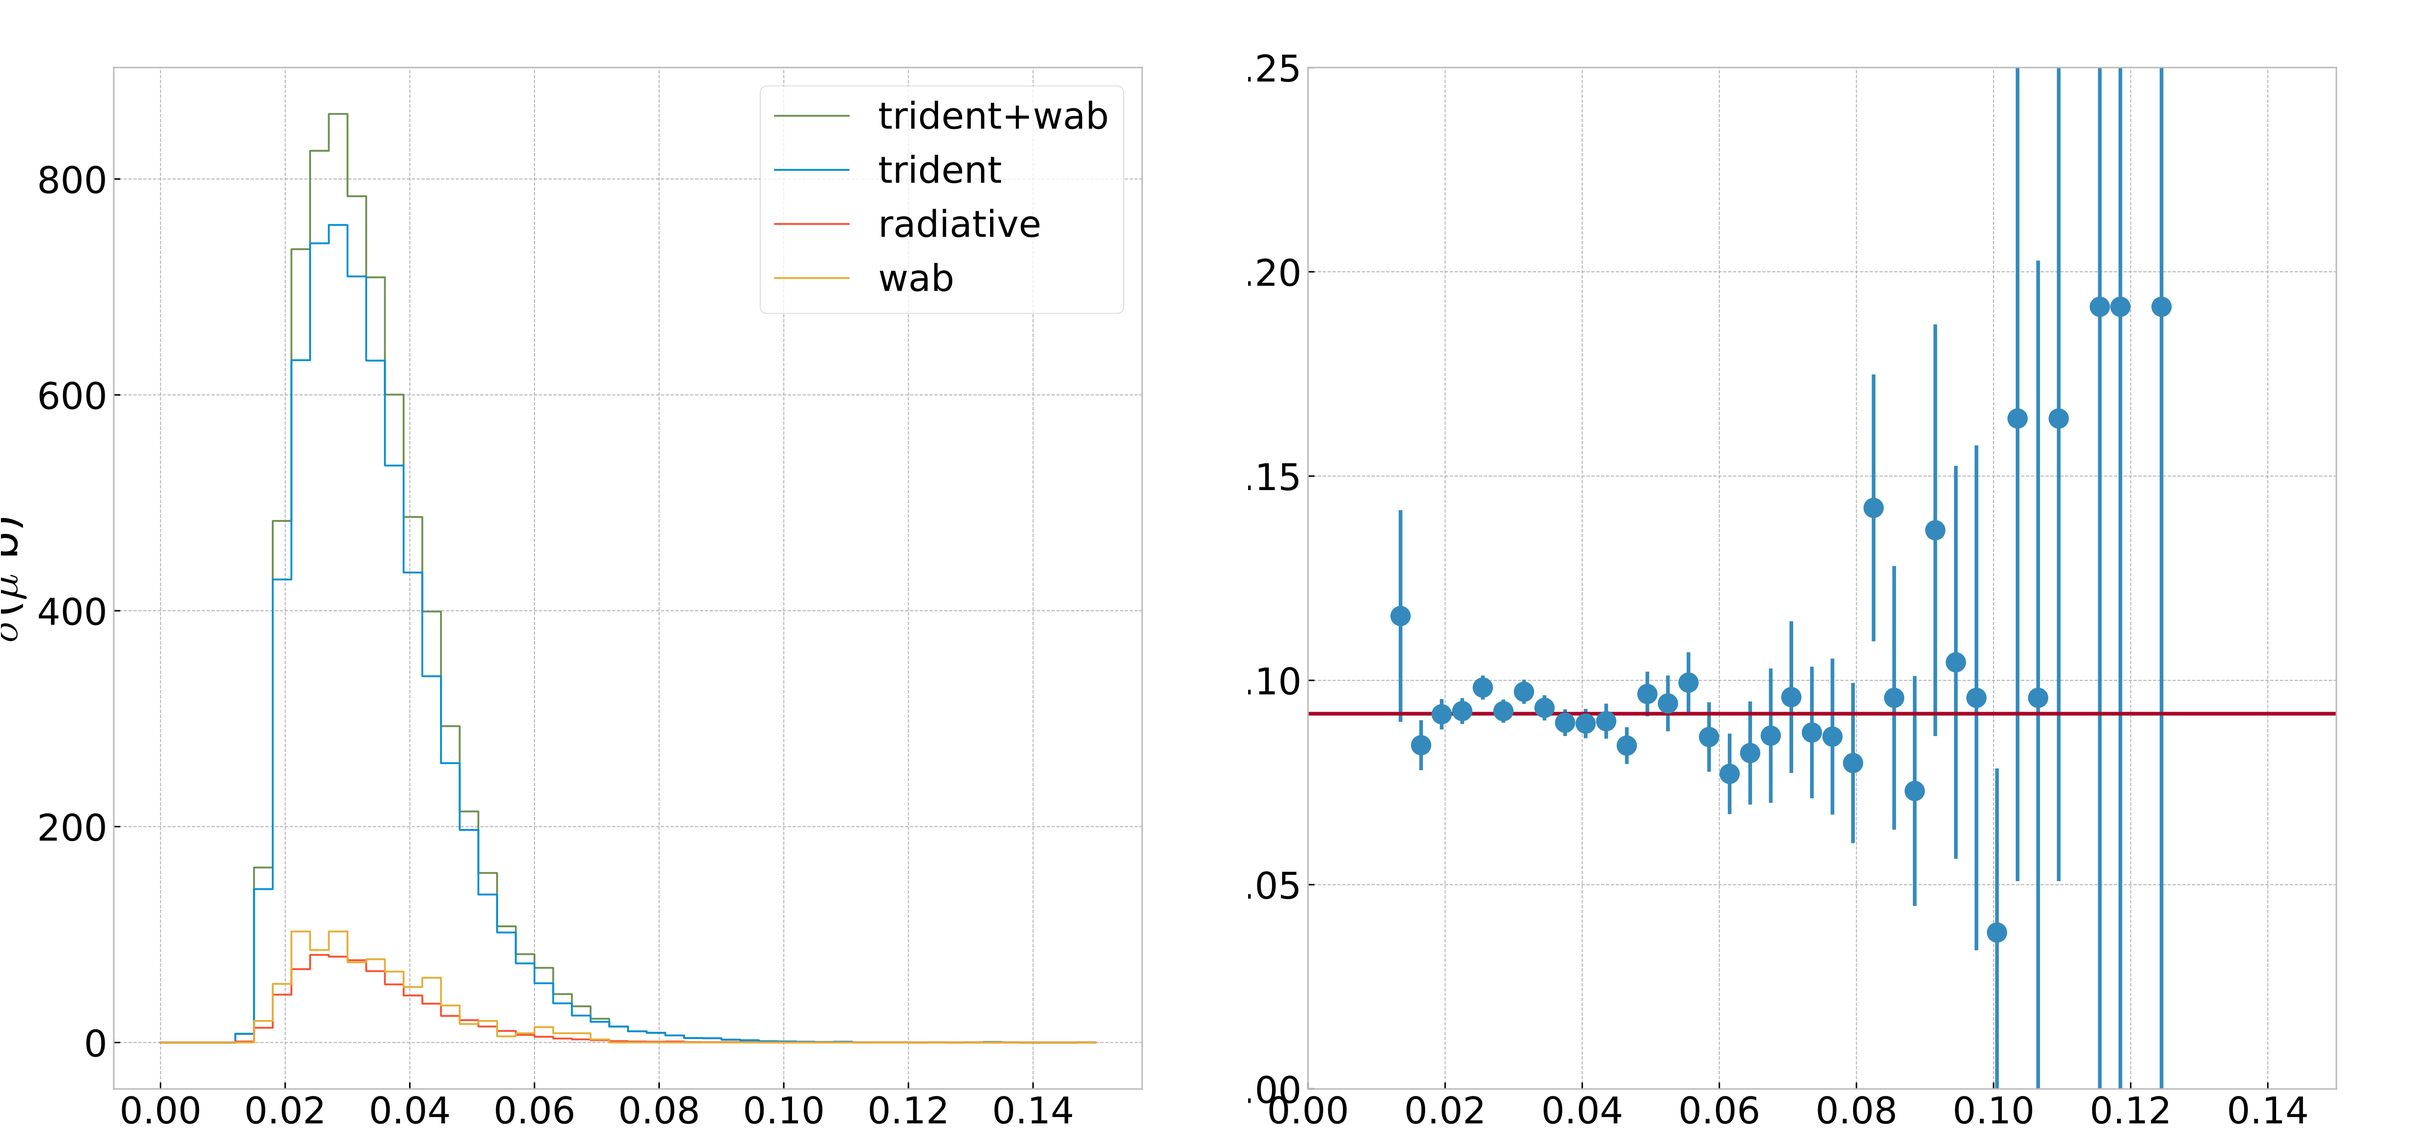
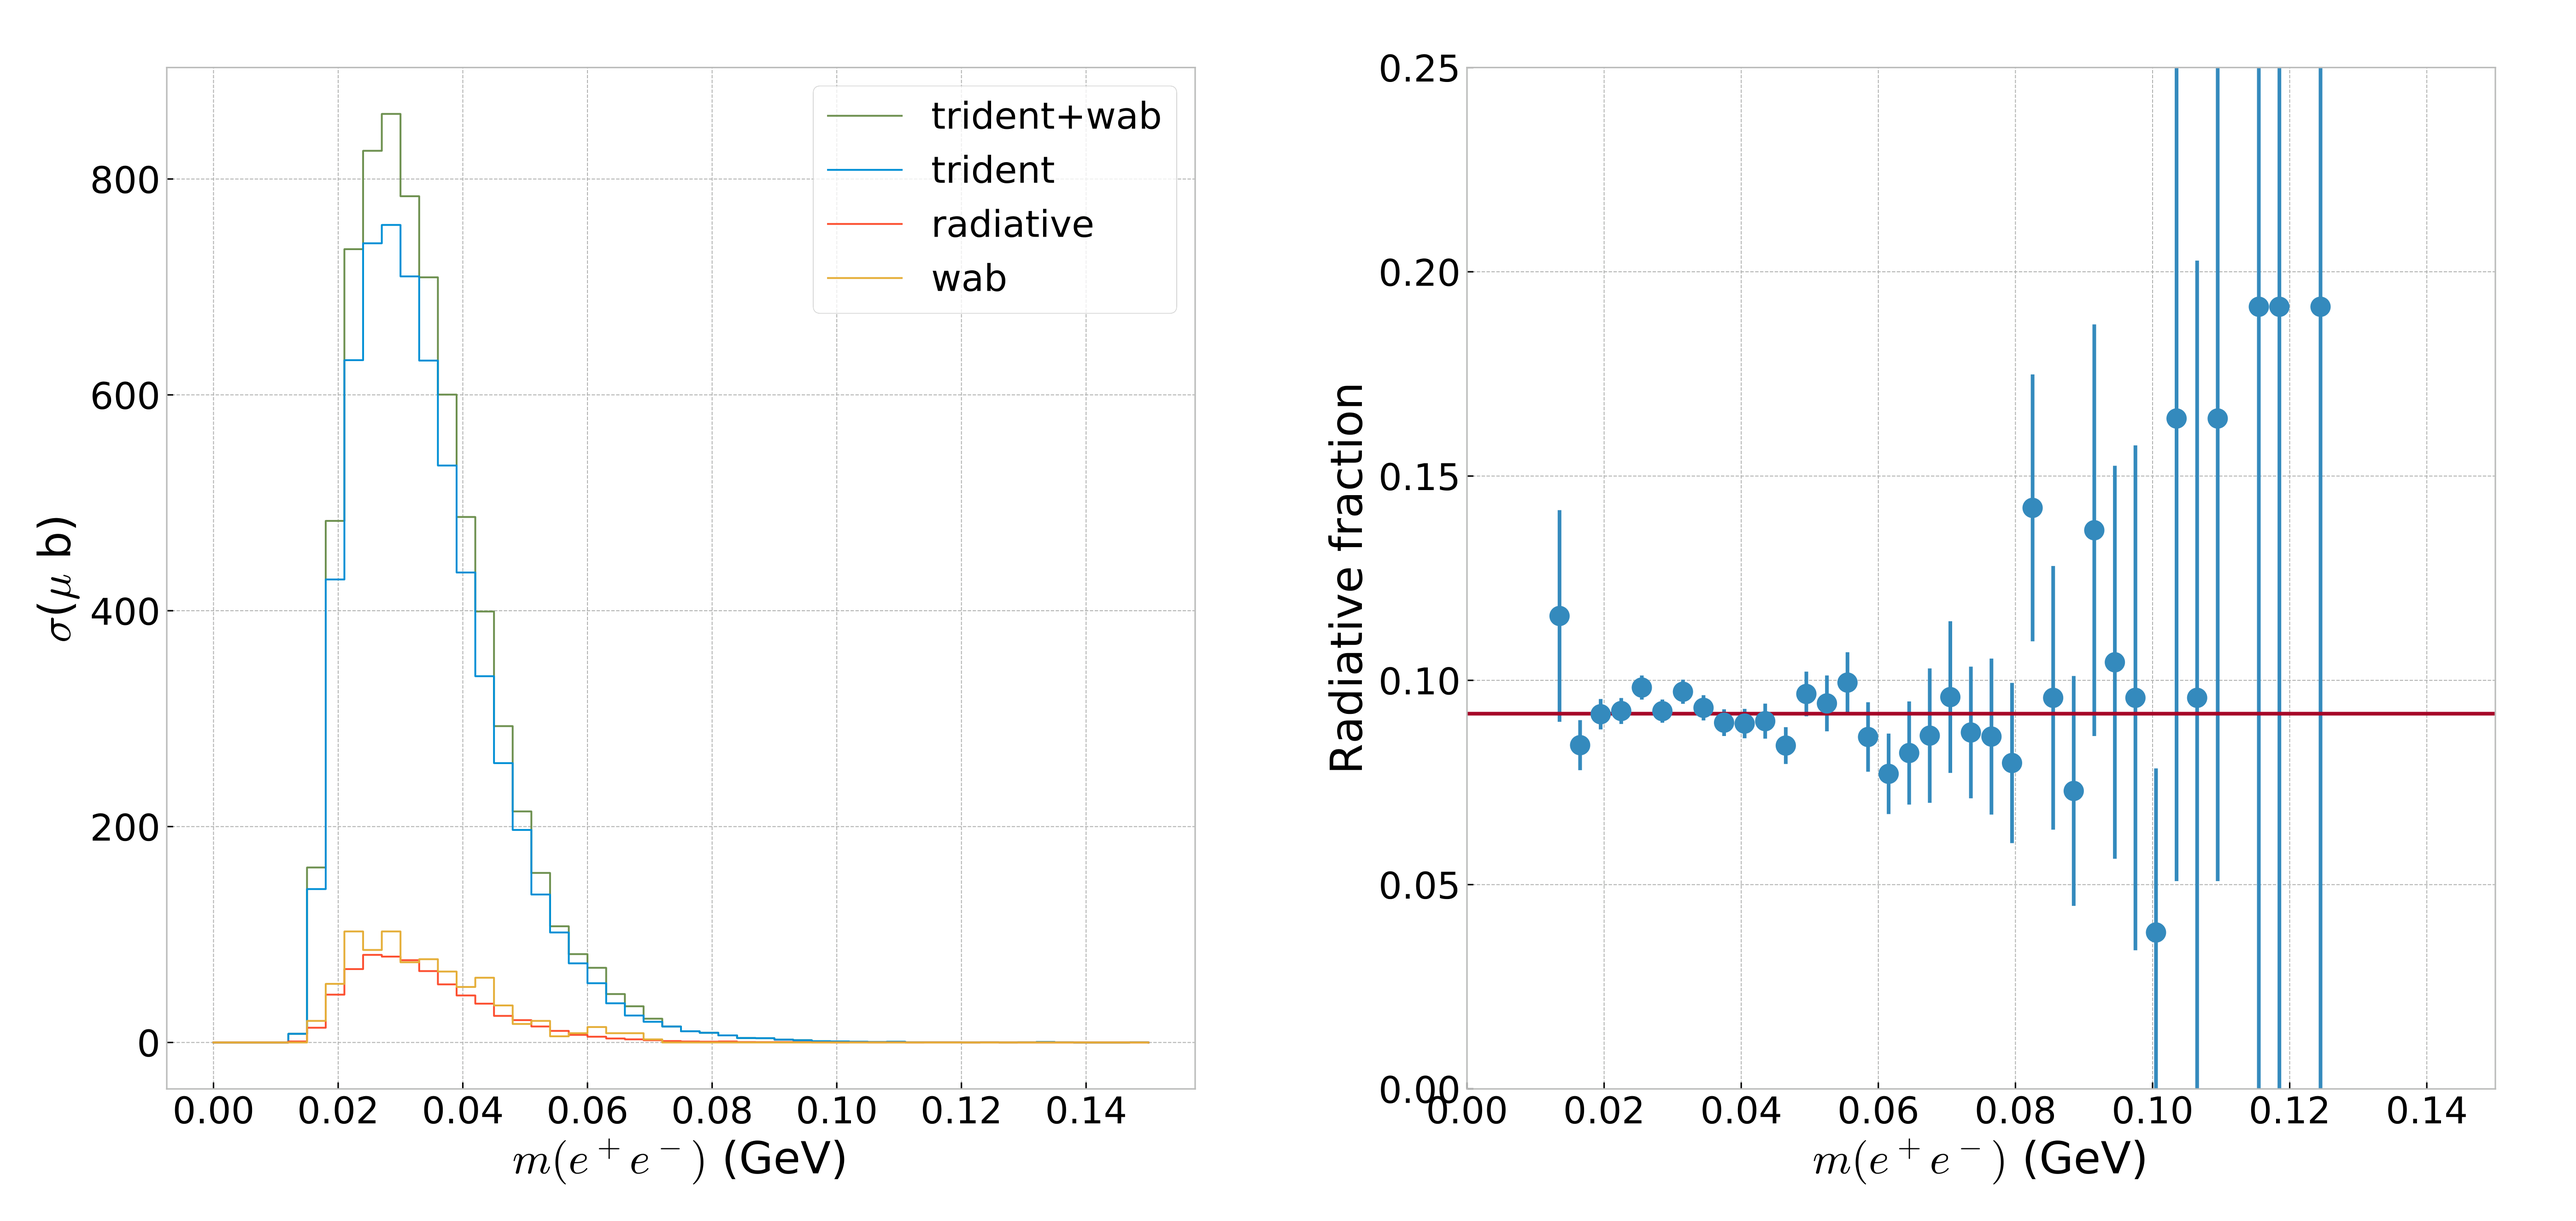
docs: fix Figure 13 axis labels

diff --git a/hps_gpr_analysis_note/scripts/generate_note_figures.py b/hps_gpr_analysis_note/scripts/generate_note_figures.py
@@ -931,13 +931,13 @@ def main(argv: list[str] | None = None) -> None:
     crop_pdf(
         NOTE_DIR / "2015_radiative_radiative_fraction.pdf",
         0,
-        (0.04, 0.07, 0.97, 0.92),
+        (0.00, 0.07, 0.97, 0.99),
         NOTE_DIR / "normalization_figs" / "hps2015_radiative_cross_section_review.png",
     )
     crop_pdf(
         NOTE_DIR / "2015_radiative_radiative_fraction.pdf",
         1,
-        (0.08, 0.07, 0.96, 0.92),
+        (0.00, 0.07, 0.96, 0.99),
         NOTE_DIR / "normalization_figs" / "hps2015_radiative_fraction_review_right.png",
     )
     tile_images_horizontal(
